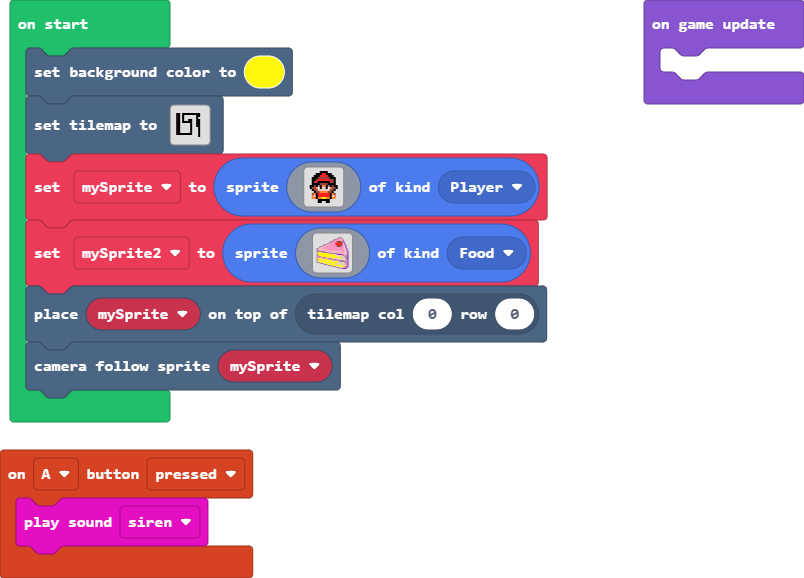
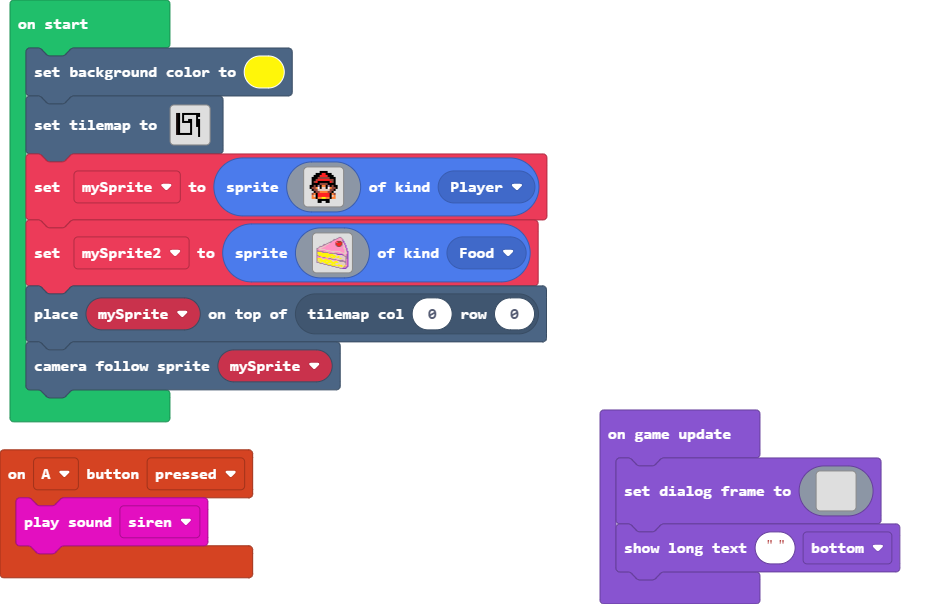
Update main.blocks, main.ts

diff --git a/main.ts b/main.ts
@@ -8,5 +8,22 @@ let mySprite2 = sprites.create(assets.image`bigCake`, SpriteKind.Food)
 tiles.placeOnTile(mySprite, tiles.getTileLocation(0, 0))
 scene.cameraFollowSprite(mySprite)
 game.onUpdate(function () {
-	
+    game.setDialogFrame(img`
+        . . . . . . . . . . . . . . . 
+        . . . . . . . . . . . . . . . 
+        . . . . . . . . . . . . . . . 
+        . . . . . . . . . . . . . . . 
+        . . . . . . . . . . . . . . . 
+        . . . . . . . . . . . . . . . 
+        . . . . . . . . . . . . . . . 
+        . . . . . . . . . . . . . . . 
+        . . . . . . . . . . . . . . . 
+        . . . . . . . . . . . . . . . 
+        . . . . . . . . . . . . . . . 
+        . . . . . . . . . . . . . . . 
+        . . . . . . . . . . . . . . . 
+        . . . . . . . . . . . . . . . 
+        . . . . . . . . . . . . . . . 
+        `)
+    game.showLongText("", DialogLayout.Bottom)
 })
